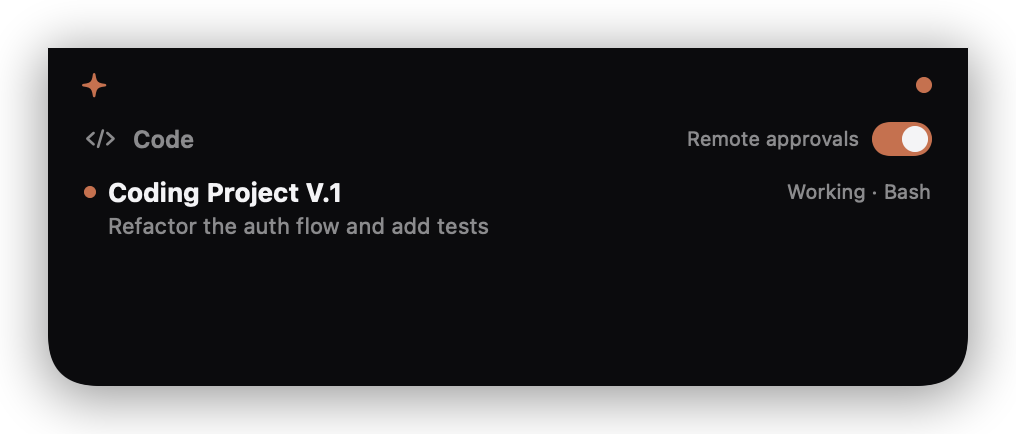
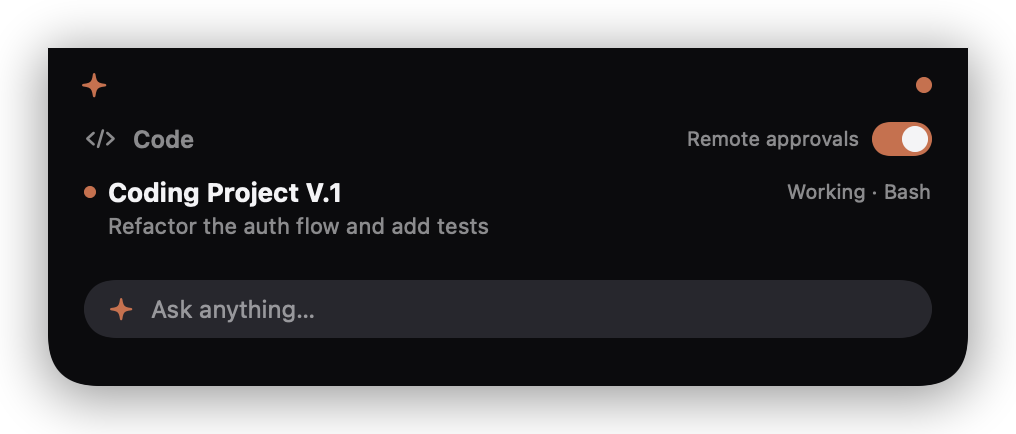
v0.6.0: Quick Ask in the notch
- Island: input pill in the expanded session view; thinking state; scrollable
  answer card with dismiss; window grows for answers; draft/answer pin the
  island open
- Relay client: startAsk/askResult; runs in the most recent session's cwd
- Fix two headless-context bugs this surfaced: get.sh records the absolute
  claude path (launchd PATH can't find `claude`), and merge-settings writes
  hook commands with the absolute node path (bare `node` fails in launchd /
  claude -p children, silently breaking every hook there)
- Relay: child PATH includes claude/node dirs; surface claude's result JSON
  on non-zero exits instead of a bare exit code
- Friendly error when the CLI isn't logged in; assets + SVG show the ask pill

Changed region(s): [[0.061, 0.629, 0.9154, 0.7788]]

diff --git a/macos/Sources/NotchCast/IslandView.swift b/macos/Sources/NotchCast/IslandView.swift
@@ -102,18 +102,101 @@ struct IslandView: View {
     private var expandedBody: some View {
         VStack(alignment: .leading, spacing: 10) {
             header
-            if let request = model.snapshot.pending.first {
-                requestSection(request, extra: model.snapshot.pending.count - 1)
-            } else if !model.connected {
-                offlineSection
-            } else {
-                sessionsSection
+            switch model.askState {
+            case .running(let prompt):
+                askRunningSection(prompt)
+            case .answer(let answer):
+                askResultSection(answer, isError: false)
+            case .error(let message):
+                askResultSection(message, isError: true)
+            case .idle:
+                if let request = model.snapshot.pending.first {
+                    requestSection(request, extra: model.snapshot.pending.count - 1)
+                } else if !model.connected {
+                    offlineSection
+                } else {
+                    sessionsSection
+                    Spacer(minLength: 0)
+                    askInputRow
+                }
             }
             Spacer(minLength: 0)
         }
         .padding(.horizontal, 18)
         .padding(.bottom, 14)
-        .frame(width: Island.expandedWidth, height: Island.expandedBodyHeight, alignment: .topLeading)
+        .frame(width: Island.expandedWidth, height: model.bodyHeight, alignment: .topLeading)
+    }
+
+    // MARK: Quick Ask
+
+    private var askInputRow: some View {
+        HStack(spacing: 8) {
+            Image(systemName: "sparkle")
+                .font(.system(size: 11, weight: .bold))
+                .foregroundStyle(Island.accent)
+            if model.renderingStatic {
+                Text("Ask anything…")
+                    .font(.system(size: 12))
+                    .foregroundStyle(Island.paperSoft)
+                Spacer(minLength: 0)
+            } else {
+                TextField("Ask anything…", text: $model.askDraft)
+                    .textFieldStyle(.plain)
+                    .font(.system(size: 12))
+                    .foregroundStyle(Island.paper)
+                    .tint(Island.accent)
+                    .disableAutocorrection(true)
+                    .onSubmit { model.submitAsk() }
+            }
+        }
+        .padding(.horizontal, 12)
+        .padding(.vertical, 7)
+        .background(Island.slate.opacity(0.7), in: Capsule())
+    }
+
+    private func askRunningSection(_ prompt: String) -> some View {
+        VStack(alignment: .leading, spacing: 8) {
+            Text(prompt)
+                .font(.system(size: 11))
+                .foregroundStyle(Island.paperSoft)
+                .lineLimit(2)
+            HStack(spacing: 8) {
+                StatusDot(state: .working)
+                Text("Thinking…")
+                    .font(.system(size: 14).weight(.semibold))
+                    .foregroundStyle(Island.paper)
+                Spacer()
+                Button("Cancel") { model.dismissAsk() }
+                    .buttonStyle(.plain)
+                    .font(.system(size: 11))
+                    .foregroundStyle(Island.paperSoft)
+            }
+        }
+    }
+
+    private func askResultSection(_ text: String, isError: Bool) -> some View {
+        VStack(alignment: .leading, spacing: 6) {
+            HStack {
+                Label(isError ? "Couldn't answer" : "Answer",
+                      systemImage: isError ? "exclamationmark.triangle" : "sparkle")
+                    .font(.system(size: 11).weight(.semibold))
+                    .foregroundStyle(isError ? .orange : Island.accent)
+                Spacer()
+                Button { model.dismissAsk() } label: {
+                    Image(systemName: "xmark.circle.fill")
+                        .font(.system(size: 14))
+                        .foregroundStyle(Island.paperSoft)
+                }
+                .buttonStyle(.plain)
+            }
+            ScrollView {
+                Text(text)
+                    .font(.system(size: 12))
+                    .foregroundStyle(Island.paper)
+                    .textSelection(.enabled)
+                    .frame(maxWidth: .infinity, alignment: .leading)
+            }
+        }
     }
 
     private var header: some View {

diff --git a/macos/Sources/NotchCast/StatusModel.swift b/macos/Sources/NotchCast/StatusModel.swift
@@ -10,9 +10,30 @@ final class StatusModel: ObservableObject {
     /// Set from the SwiftUI view; keeps the island open while the mouse is on it.
     @Published var hovering = false { didSet { recomputeExpansion() } }
 
+    // MARK: Quick Ask
+
+    enum AskState: Equatable {
+        case idle
+        case running(prompt: String)
+        case answer(String)
+        case error(String)
+    }
+
+    @Published private(set) var askState: AskState = .idle {
+        didSet { updateBodyHeight(); recomputeExpansion() }
+    }
+    /// Bound to the notch input; a non-empty draft pins the island open.
+    @Published var askDraft = "" { didSet { recomputeExpansion() } }
+    /// Height the expanded body should adopt (answers need more room).
+    @Published private(set) var bodyHeight: CGFloat = Island.expandedBodyHeight
+
     /// Screen metrics injected by the app delegate so views can hug the notch.
     var notchWidth: CGFloat = 196
     var barHeight: CGFloat = 37
+
+    /// Set by the offscreen asset renderer: AppKit-backed controls (TextField)
+    /// don't render there, so views draw static stand-ins instead.
+    var renderingStatic = false
 
     private var client: RelayClient? = RelayClient.fromConfigFile()
     private var pollTask: Task<Void, Never>?
@@ -20,7 +41,10 @@ final class StatusModel: ObservableObject {
 
     /// The island stays open on its own while something needs the user.
     var pinnedOpen: Bool {
-        !snapshot.pending.isEmpty || snapshot.liveSessions.contains { $0.state == "attention" }
+        !snapshot.pending.isEmpty
+            || snapshot.liveSessions.contains { $0.state == "attention" }
+            || askState != .idle
+            || !askDraft.isEmpty
     }
 
     /// Aggregate state that drives the collapsed indicator dot.
@@ -71,6 +95,50 @@ final class StatusModel: ObservableObject {
             try? await client?.setRemoteMode(on)
             snapshot.remoteMode = on
             await refresh()
+        }
+    }
+
+    func submitAsk() {
+        let prompt = askDraft.trimmingCharacters(in: .whitespacesAndNewlines)
+        guard !prompt.isEmpty, askState != .running(prompt: prompt), let client else { return }
+        askState = .running(prompt: prompt)
+        askDraft = ""
+        Task {
+            do {
+                // Run in the most recent session's project so answers have context.
+                let cwd = snapshot.liveSessions.first?.cwd
+                let id = try await client.startAsk(prompt: prompt, cwd: cwd)
+                for _ in 0..<120 { // up to ~4 minutes
+                    try await Task.sleep(for: .seconds(2))
+                    guard askState == .running(prompt: prompt) else { return } // dismissed
+                    let job = try await client.askResult(id: id)
+                    if job.state == "done" {
+                        // Headless runs use the CLI's own login, which may be
+                        // missing even when the desktop app is signed in.
+                        if job.answer.contains("authentication_error") || job.answer.contains("Not logged in") {
+                            askState = .error("The claude CLI isn't logged in on this Mac. Run `claude /login` in a terminal once, then ask again.")
+                        } else {
+                            askState = .answer(job.answer)
+                        }
+                        return
+                    }
+                    if job.state == "error" { askState = .error(job.error); return }
+                }
+                askState = .error("Timed out waiting for an answer.")
+            } catch {
+                askState = .error(error.localizedDescription)
+            }
+        }
+    }
+
+    func dismissAsk() {
+        askState = .idle
+    }
+
+    private func updateBodyHeight() {
+        switch askState {
+        case .answer, .error: bodyHeight = 280
+        default: bodyHeight = Island.expandedBodyHeight
         }
     }
 

diff --git a/macos/Sources/NotchCast/RelayClient.swift b/macos/Sources/NotchCast/RelayClient.swift
@@ -113,4 +113,26 @@ struct RelayClient {
     func setRemoteMode(_ on: Bool) async throws {
         _ = try await request("mode", method: "POST", body: ["remoteMode": on])
     }
+
+    // MARK: Quick Ask (headless `claude -p` runs on the relay)
+
+    struct AskJob: Codable {
+        var id: String
+        var prompt: String
+        var state: String   // running | done | error
+        var answer: String
+        var error: String
+    }
+
+    func startAsk(prompt: String, cwd: String?) async throws -> String {
+        struct Started: Codable { var id: String }
+        var body: [String: Any] = ["prompt": prompt]
+        if let cwd, !cwd.isEmpty { body["cwd"] = cwd }
+        let data = try await request("ask", method: "POST", body: body)
+        return try JSONDecoder().decode(Started.self, from: data).id
+    }
+
+    func askResult(id: String) async throws -> AskJob {
+        try JSONDecoder().decode(AskJob.self, from: try await request("ask/\(id)"))
+    }
 }

diff --git a/server/server.js b/server/server.js
@@ -284,9 +284,12 @@ function handleAsk(body, res) {
   asks.set(id, job);
   if (asks.size > 50) asks.delete(asks.keys().next().value);
 
+  // Under launchd the env is minimal — make sure the child can find its own
+  // binary's directory and node on PATH.
+  const extraPath = [path.dirname(CLAUDE_BIN), path.dirname(process.execPath)].join(':');
   const child = spawn(CLAUDE_BIN, ['-p', prompt, '--output-format', 'json'], {
     cwd: body?.cwd || os.homedir(),
-    env: process.env,
+    env: { ...process.env, PATH: `${extraPath}:${process.env.PATH || '/usr/bin:/bin'}` },
     stdio: ['ignore', 'pipe', 'pipe'],
   });
   let out = '', err = '';
@@ -295,11 +298,16 @@ function handleAsk(body, res) {
   child.on('error', (e) => { job.state = 'error'; job.error = String(e.message || e); });
   child.on('close', (code) => {
     if (job.state === 'error') return;
-    if (code !== 0) { job.state = 'error'; job.error = truncate(err || `claude exited with code ${code}`, 500); return; }
-    try {
-      const parsed = JSON.parse(out);
-      job.answer = parsed.result || out;
-    } catch { job.answer = out.trim(); }
+    // claude may exit non-zero while still writing a useful result JSON
+    // (e.g. "Not logged in") — prefer showing that over a bare exit code.
+    let parsed = null;
+    try { parsed = JSON.parse(out); } catch { /* not JSON */ }
+    if (code !== 0 && !parsed?.result) {
+      job.state = 'error';
+      job.error = truncate(err.trim() || out.trim() || `claude exited with code ${code}`, 500);
+      return;
+    }
+    job.answer = parsed?.result || out.trim();
     job.state = 'done';
   });
 

diff --git a/macos/Sources/NotchCast/App.swift b/macos/Sources/NotchCast/App.swift
@@ -34,6 +34,16 @@ final class AppDelegate: NSObject, NSApplicationDelegate {
             .sink { [weak self] expanded in self?.layoutPanel(expanded: expanded) }
             .store(in: &cancellables)
 
+        // Quick Ask answers need a taller window while expanded.
+        model.$bodyHeight
+            .removeDuplicates()
+            .receive(on: RunLoop.main)
+            .sink { [weak self] _ in
+                guard let self, self.model.expanded else { return }
+                self.layoutPanel(expanded: true)
+            }
+            .store(in: &cancellables)
+
         // Re-anchor when displays change (lid open/close, external monitor).
         NotificationCenter.default.addObserver(
             forName: NSApplication.didChangeScreenParametersNotification,
@@ -91,7 +101,7 @@ final class AppDelegate: NSObject, NSApplicationDelegate {
     private func layoutPanel(expanded: Bool) {
         let m = screenMetrics()
         let size = expanded
-            ? NSSize(width: Island.expandedWidth, height: m.barHeight + Island.expandedBodyHeight)
+            ? NSSize(width: Island.expandedWidth, height: m.barHeight + model.bodyHeight)
             : NSSize(width: m.notchWidth + 100, height: m.barHeight + 8)
         let screenFrame = targetScreen.frame
         let frame = NSRect(

diff --git a/macos/Scripts/RenderReadmeAssets.swift b/macos/Scripts/RenderReadmeAssets.swift
@@ -33,6 +33,7 @@ enum RenderReadmeAssets {
 
         // Expanded on hover, just showing session status.
         let statusModel = StatusModel()
+        statusModel.renderingStatic = true
         statusModel.apply(
             snapshot: StatusSnapshot(remoteMode: true, serverTime: now,
                                      sessions: [session], pending: [], rules: []),

diff --git a/README.md b/README.md
@@ -37,6 +37,7 @@ Prefer to read before piping to bash? Quite right: [get.sh](get.sh). Manual setu
 - **Collapsed**: a slim black extension of the notch with a status dot — the signature orange pulse while the agent works, bright amber when something needs you, green when idle.
 - **Auto-expands** when the agent requests permission, showing **Always allow / Allow once / Deny** right under the notch. *Always allow* saves a rule (e.g. `Bash:npm`) that auto-approves matching requests from then on.
 - **Hover** over the notch anytime to peek at active sessions and their last prompt, and to toggle remote approvals.
+- **Quick Ask** — type a question into the notch; the relay runs a headless `claude -p` in your most recent session's project and the answer appears right there. (Requires the `claude` CLI to be logged in: `claude /login` once.)
 - **Never steals focus** — it's a non-activating panel; clicking buttons doesn't interrupt what you're doing. Menu-bar ✦ icon as fallback for Macs without a notch.
 - **Fails open, fails safe** — if the relay is down or you don't answer in time, the agent falls back to its normal terminal prompt. Nothing is auto-approved without you.
 - **Brand-neutral by design** — Claude Code is the first supported agent; the relay protocol and UI are agent-agnostic so other coding agents can plug in (see roadmap).
@@ -85,11 +86,11 @@ Then merge [hooks/settings.example.json](hooks/settings.example.json) into `~/.c
 
 - The permission gate waits up to 2 minutes (configurable via `gateTimeoutMs`) for a click, then falls back to the terminal prompt.
 - The relay keeps session state in memory — restarting it clears session history (rules and config persist on disk).
-- The relay's `/ask` endpoint (one-shot headless `claude -p` runs) exists but has no island UI yet — see roadmap.
+- Quick Ask runs a fresh headless `claude -p` per question — it doesn't inject into a live session, and it needs the CLI logged in (`claude /login`) separately from the desktop app.
 
 ## Roadmap
 
-- [ ] Quick Ask input right in the notch
+- [x] Quick Ask input right in the notch *(v0.6.0)*
 - [ ] Click a session to peek at its transcript ("View Session")
 - [ ] Homebrew tap (`brew install notchcast`)
 - [ ] Adapters for more agents (Codex CLI, Gemini CLI) over the same relay protocol